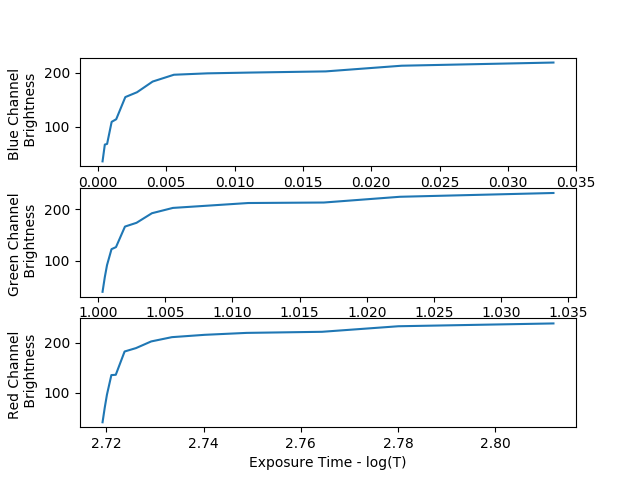
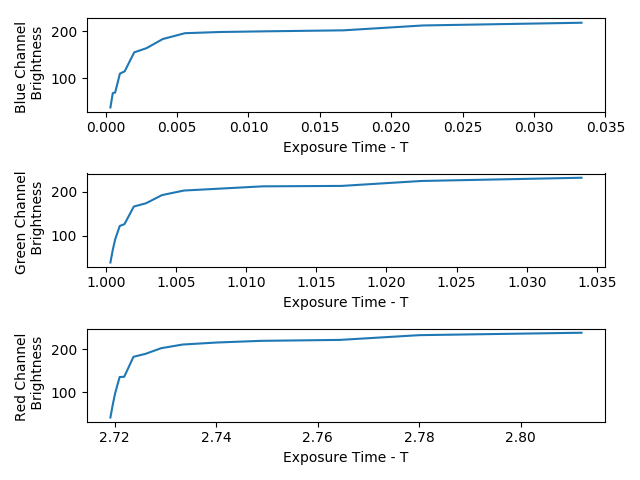
SAdded invert gamma correction, TODO: Fix bug with X axis on figure 1

diff --git a/hdr/gamma.py b/hdr/gamma.py
@@ -7,6 +7,44 @@ from utility import constants as ct
 from utility import util as ut
 
 
+def invert_gamma_correction(exp_times, read_path=None, g=None, fits=None, callback=None, display=False):
+    # If g parameters have not yet been learned, the function learns them using images in the gamma folder.
+    # Optional callback function that is applied to an image while being loaded.
+    # callback operational only when g parameters have already been learned
+    # If display is set to true, then popups of the plots are shown and written to the gamma output folder
+
+    # Returns corrected brightness, original brightness, g parameters, polynomial fits
+
+    exp_times = np.log(exp_times)
+    if g is None:
+        g_b, g_g, g_r, fits, orig_brightness = learn_gamma_correction_parameters(exp_times)
+        g = [g_b, g_g, g_r]
+
+    else:
+        if read_path is None:
+            raise RuntimeError("Must specify path to load images")
+        images = im.load_images_from_folder(read_path, callback)
+        # We consider the log of the orig_brightness, so we pass the np.log to the function
+        orig_brightness = im.get_average_brightness_of_images(images, np.log)
+
+    # Reversing log that was applied
+    orig_brightness = np.exp(orig_brightness)
+
+    # Inverting the gamma correction
+    blue_corrected = np.power(orig_brightness[0], g[0])
+    green_corrected = np.power(orig_brightness[1], g[1])
+    red_corrected = np.power(orig_brightness[2], g[2])
+
+    new_brightness = [blue_corrected, green_corrected, red_corrected]
+
+    if display is True:
+        plot_brightness_of_channels(1, "ChannelBrightness.png", exp_times, np.log(orig_brightness), np.exp)
+        plot_brightness_fit(2, "LinearRegression.png", exp_times, np.log(orig_brightness), fits)
+        plot_brightness_of_channels(3, "CorrectedBrightness.png", np.exp(exp_times), new_brightness)
+
+    return new_brightness, orig_brightness, g, fits
+
+
 def learn_gamma_correction_parameters(exp_times):
     # Learns the gamma correction applied by the camera.
     # Reads images from the gamma correction images directory
@@ -42,14 +80,9 @@ def __curve_fit(X, Y):
     return fit
 
 
-def invert_gamma_correction(g_b, g_g, g_r):
-    brightness = 0
-    return brightness
-
-
 def plot_brightness_of_channels(figure_number, file_name, X, Y, callback=None):
     plb.figure(figure_number)
-
+    # plb.tight_layout()
     for i in range(0, 3):
         channel = Y[i]
         if callback is not None:
@@ -58,33 +91,25 @@ def plot_brightness_of_channels(figure_number, file_name, X, Y, callback=None):
         plb.subplot(int("31" + str(i + 1)))
         plb.plot(X, channel)
         plb.ylabel(ct.CHANNEL[i] + ' Channel \n Brightness')
-        plb.xlabel('Exposure Time - log(T)')
-
+        plb.xlabel('Exposure Time - T')
+    plb.tight_layout()
     plb.savefig(ct.GAMMA_WRITE_PATH + "/" + file_name)
     plb.show()
 
 
-def plot_brightness_fit(figure_number, X, Y, fits):
+def plot_brightness_fit(figure_number, file_name, X, Y, fits):
     plb.figure(figure_number)
 
     for i in range(0, 3):
         channel_brightness = Y[i]
         fit = fits[i]
-        plb.subplot(int("31" + str(i+1)))
+        plb.subplot(int("31" + str(i + 1)))
         plb.plot(X, channel_brightness, 'o', color='k')
         plb.plot(X, fit(X), color='r')
         plb.xlabel('Exposure Time - log(T)')
 
         plb.ylabel(ct.CHANNEL[i] + ' Channel \n Brightness $\mathrm{(B^{g})}$')
 
-    plb.savefig(ct.GAMMA_WRITE_PATH + "/LinearRegression.png")
+    plb.tight_layout()
+    plb.savefig(ct.GAMMA_WRITE_PATH + "/" + file_name)
     plb.show()
-
-
-def plot_channel_brightness_fit(X, Y, fit):
-    plb.plot(X, Y, 'o', color='k')
-    plb.plot(X, fit(X), color='r')
-    plb.xlabel('Exposure Time')
-    plb.ylabel('Brightness $\mathrm{(B^{g})}$')
-    plb.show()
-

diff --git a/HDR.py b/HDR.py
@@ -1,31 +1,34 @@
-import numpy as np
+# import numpy as np
 
-from matplotlib import pylab as plb
+# from matplotlib import pylab as plb
 
 # from hdr import compositions as cp
 # from hdr import exposure as xp
 from hdr import gamma as gc
 
-from utility import constants as ct
-
 exposure_times = [1/30, 1/45, 1/60, 1/90, 1/125, 1/180, 1/250, 1/350, 1/500, 1/750, 1/1000, 1/1500, 1/2000, 1/3000]
 exposure_times.reverse()
-log_exp_times = np.log(exposure_times)
+new_brightness, orig_brightness, g, fits = gc.invert_gamma_correction(exposure_times, display=True)
+# log_exp_times = np.log(exposure_times)
 
-g_blue, g_green, g_red, fits, brightness = gc.learn_gamma_correction_parameters(log_exp_times)
+# g_blue, g_green, g_red, fits, brightness = gc.learn_gamma_correction_parameters(log_exp_times)
 
-gc.plot_brightness_of_channels(1, "ChannelBrightness.png", log_exp_times, brightness, np.exp)
-gc.plot_brightness_fit(2, log_exp_times, brightness, fits)
+# gc.plot_brightness_of_channels(1, "ChannelBrightness.png", log_exp_times, brightness, np.exp)
+# gc.plot_brightness_fit(2, "LinearRegression.png", log_exp_times, brightness, fits)
 
-print(g_blue, g_green, g_red)
+# print(g_blue, g_green, g_red)
 
-brightness = np.exp(brightness)
+# Reversing the log applied to the brightness. Values now lie between 0 - 255
+# brightness = np.exp(brightness)
 
-blue_corrected = np.power(brightness[0], g_blue)
-green_corrected = np.power(brightness[1], g_green)
-red_corrected = np.power(brightness[2], g_green)
+# blue_corrected = np.power(brightness[0], g_blue)
+# green_corrected = np.power(brightness[1], g_green)
+# red_corrected = np.power(brightness[2], g_green)
+#
+# new_brightness = [blue_corrected, green_corrected, red_corrected]
 
-new_brightness = [blue_corrected, green_corrected, red_corrected]
+# gc.plot_brightness_of_channels(3, "CorrectedBrightness.png", exposure_times, new_brightness)
 
-gc.plot_brightness_of_channels(3, "CorrectedBrightness.png", exposure_times, new_brightness)
-
+# gc.plot_brightness_of_channels(1, "ChannelBrightness.png", np.log(exposure_times), np.log(orig_brightness), np.exp)
+# gc.plot_brightness_fit(2, "LinearRegression.png", np.log(exposure_times), np.log(orig_brightness), fits)
+# gc.plot_brightness_of_channels(3, "CorrectedBrightness.png", exposure_times, new_brightness)

diff --git a/utility/constants.py b/utility/constants.py
@@ -1,3 +1,5 @@
+# -----------------------------------------------
+# CHANNEL CONSTANTS
 CHANNEL = {0: "Blue", 1: "Green", 2: "Red"}
 
 # -----------------------------------------------
